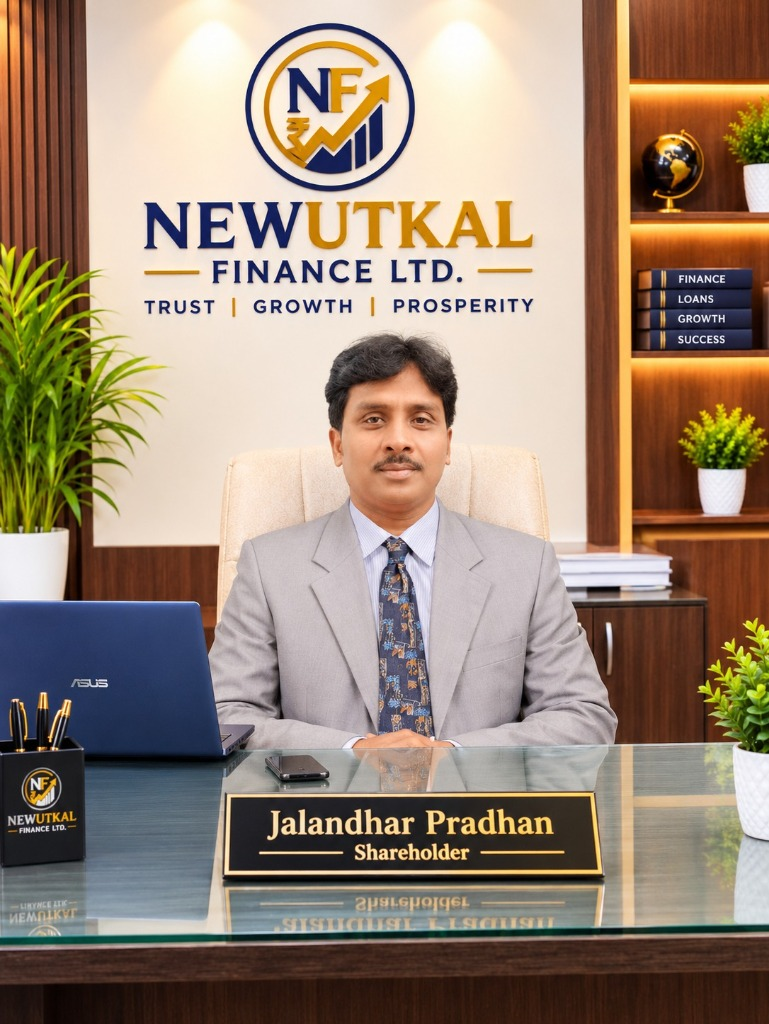
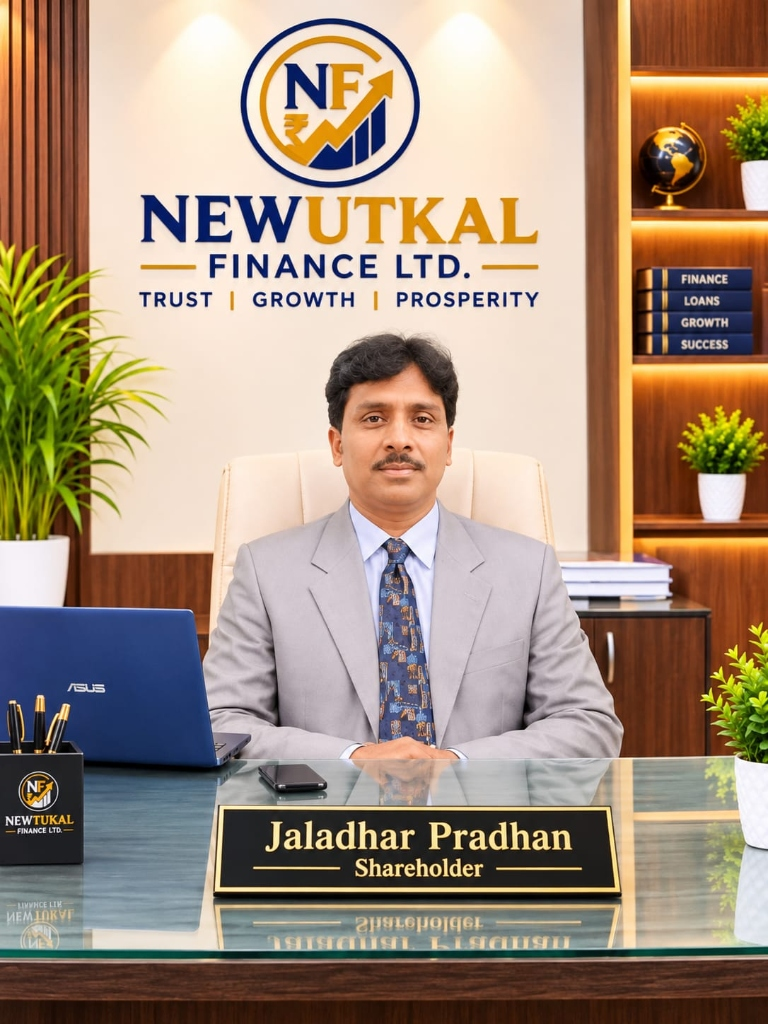
completed

diff --git a/src/components/gallery/GalleryFeaturedPhoto.jsx b/src/components/gallery/GalleryFeaturedPhoto.jsx
@@ -4,10 +4,10 @@ import { GalleryLightbox } from './GalleryLightbox';
 import mdPhoto from '../../assets/image copy 9.png';
 import sureshPhoto from '../../assets/WhatsApp Image 2026-09-19 at 12.41.27.jpeg';
 import hemantaPhoto from '../../assets/WhatsApp Image 2026-09-19 at 13.58.06.jpeg';
-import ajitPhoto from '../../assets/WhatsApp Image 2026-09-19 at 13.55.28.jpeg';
+import ajitPhoto from '../../assets/ajit_kumar_bhuyan.jpg';
 import antarjamiPhoto from '../../assets/image copy 25.png';
-import govindaPhoto from '../../assets/image copy 19.png';
-import mornalPhoto from '../../assets/image copy 26.png';
+import govindaPhoto from '../../assets/gobinda_chandra_behera.jpg';
+import mornalPhoto from '../../assets/mrunal_kumar_mohapatra.jpg';
 
 export function GalleryFeaturedPhoto() {
   const [lightboxOpen, setLightboxOpen] = useState(false);
@@ -41,8 +41,8 @@ export function GalleryFeaturedPhoto() {
     {
       id: 4,
       image: ajitPhoto,
-      name: "Ajit Bhuria",
-      modalTitle: "Ajit Bhuria",
+      name: "Ajit Kumar Bhuyan",
+      modalTitle: "Ajit Kumar Bhuyan",
       modalCaption: "Share Holder • New Utkal Finance Limited",
       category: "Leadership",
     },
@@ -57,16 +57,16 @@ export function GalleryFeaturedPhoto() {
     {
       id: 6,
       image: govindaPhoto,
-      name: "Govinda Behera",
-      modalTitle: "Govinda Behera",
+      name: "Gobinda Chandra Behera",
+      modalTitle: "Gobinda Chandra Behera",
       modalCaption: "Board Member • New Utkal Finance Limited",
       category: "Leadership",
     },
     {
       id: 7,
       image: mornalPhoto,
-      name: "Mornal Kumar Mohapatra",
-      modalTitle: "Mornal Kumar Mohapatra",
+      name: "Mrunal Kumar Mohapatra",
+      modalTitle: "Mrunal Kumar Mohapatra",
       modalCaption: "Board Member • New Utkal Finance Limited",
       category: "Leadership",
     },

diff --git a/src/components/about/LeadershipTeam.jsx b/src/components/about/LeadershipTeam.jsx
@@ -4,9 +4,9 @@ import mdPhoto from '../../assets/image copy 9.png';
 import sureshPhoto from '../../assets/WhatsApp Image 2026-09-19 at 12.41.27.jpeg';
 import hemantaPhoto from '../../assets/WhatsApp Image 2026-09-19 at 13.58.06.jpeg';
 import antarjamiPhoto from '../../assets/image copy 25.png';
-import govindaPhoto from '../../assets/image copy 19.png';
-import ajitBhueiaPhoto from '../../assets/WhatsApp Image 2026-09-19 at 13.55.28.jpeg';
-import mornalPhoto from '../../assets/image copy 26.png';
+import govindaPhoto from '../../assets/gobinda_chandra_behera.jpg';
+import ajitBhueiaPhoto from '../../assets/ajit_kumar_bhuyan.jpg';
+import mornalPhoto from '../../assets/mrunal_kumar_mohapatra.jpg';
 import krushnaPhoto from '../../assets/krushna_chandra_sahoo.jpg';
 import jalandharPhoto from '../../assets/jalandhar_pradhan.jpg';
 import surathPhoto from '../../assets/surath_sahoo.jpg';
@@ -36,17 +36,17 @@ export function LeadershipTeam() {
     {
       id: 5,
       image: govindaPhoto,
-      name: "Govinda Behera",
+      name: "Gobinda Chandra Behera",
     },
     {
       id: 6,
       image: ajitBhueiaPhoto,
-      name: "Ajit Kumar Bhueia",
+      name: "Ajit Kumar Bhuyan",
     },
     {
       id: 7,
       image: mornalPhoto,
-      name: "Mornal Kumar Mohapatra",
+      name: "Mrunal Kumar Mohapatra",
     },
     {
       id: 8,
@@ -56,7 +56,7 @@ export function LeadershipTeam() {
     {
       id: 9,
       image: jalandharPhoto,
-      name: "Jalandhar Pradhan",
+      name: "Jaladhar Pradhan",
     },
     {
       id: 10,

diff --git a/src/data/leadershipTeam.js b/src/data/leadershipTeam.js
@@ -2,9 +2,9 @@ import mdPhoto from '../assets/image copy 9.png';
 import sureshPhoto from '../assets/WhatsApp Image 2026-09-19 at 12.41.27.jpeg';
 import hemantaPhoto from '../assets/WhatsApp Image 2026-09-19 at 13.58.06.jpeg';
 import antarjamiPhoto from '../assets/image copy 25.png';
-import govindaPhoto from '../assets/image copy 19.png';
-import ajitBhueiaPhoto from '../assets/WhatsApp Image 2026-09-19 at 13.55.28.jpeg';
-import mornalPhoto from '../assets/image copy 26.png';
+import govindaPhoto from '../assets/gobinda_chandra_behera.jpg';
+import ajitBhueiaPhoto from '../assets/ajit_kumar_bhuyan.jpg';
+import mornalPhoto from '../assets/mrunal_kumar_mohapatra.jpg';
 import krushnaPhoto from '../assets/krushna_chandra_sahoo.jpg';
 import jalandharPhoto from '../assets/jalandhar_pradhan.jpg';
 import surathPhoto from '../assets/surath_sahoo.jpg';
@@ -33,17 +33,17 @@ export const LEADERSHIP_TEAM = [
   {
     id: 5,
     image: govindaPhoto,
-    name: "Govinda Behera",
+    name: "Gobinda Chandra Behera",
   },
   {
     id: 6,
     image: ajitBhueiaPhoto,
-    name: "Ajit Kumar Bhueia",
+    name: "Ajit Kumar Bhuyan",
   },
   {
     id: 7,
     image: mornalPhoto,
-    name: "Mornal Kumar Mohapatra",
+    name: "Mrunal Kumar Mohapatra",
   },
   {
     id: 8,
@@ -53,7 +53,7 @@ export const LEADERSHIP_TEAM = [
   {
     id: 9,
     image: jalandharPhoto,
-    name: "Jalandhar Pradhan",
+    name: "Jaladhar Pradhan",
   },
   {
     id: 10,
